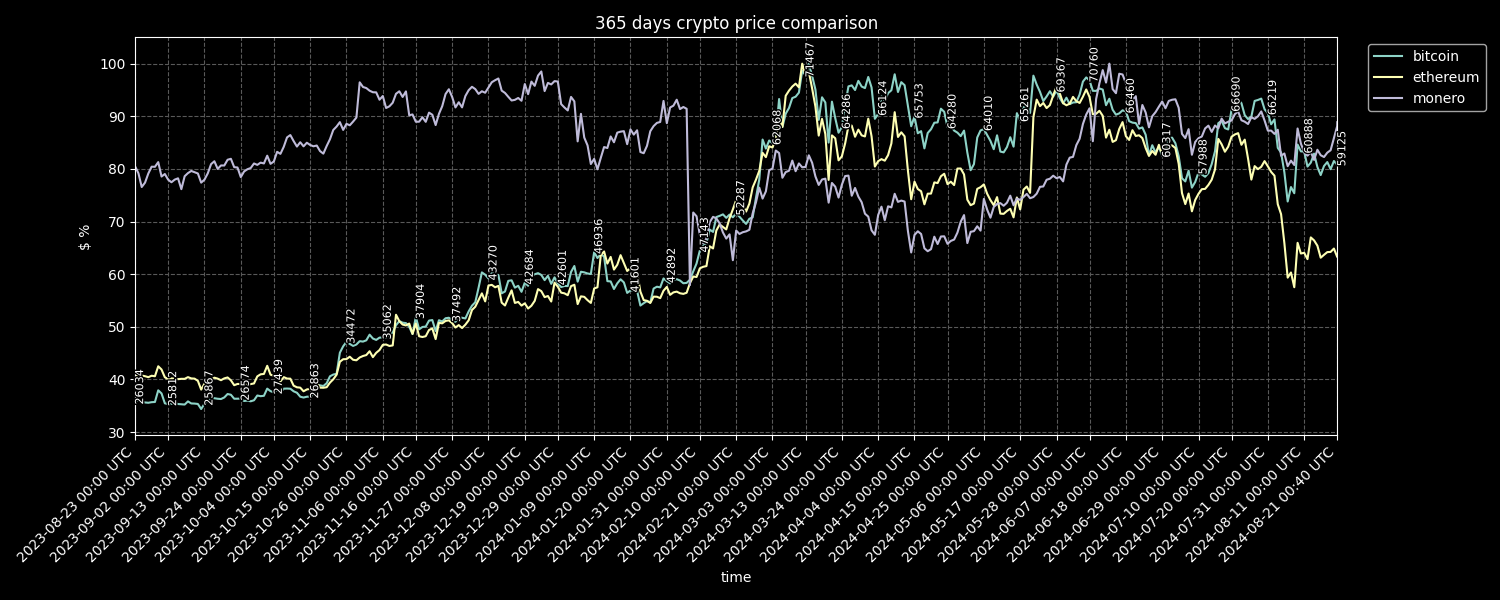
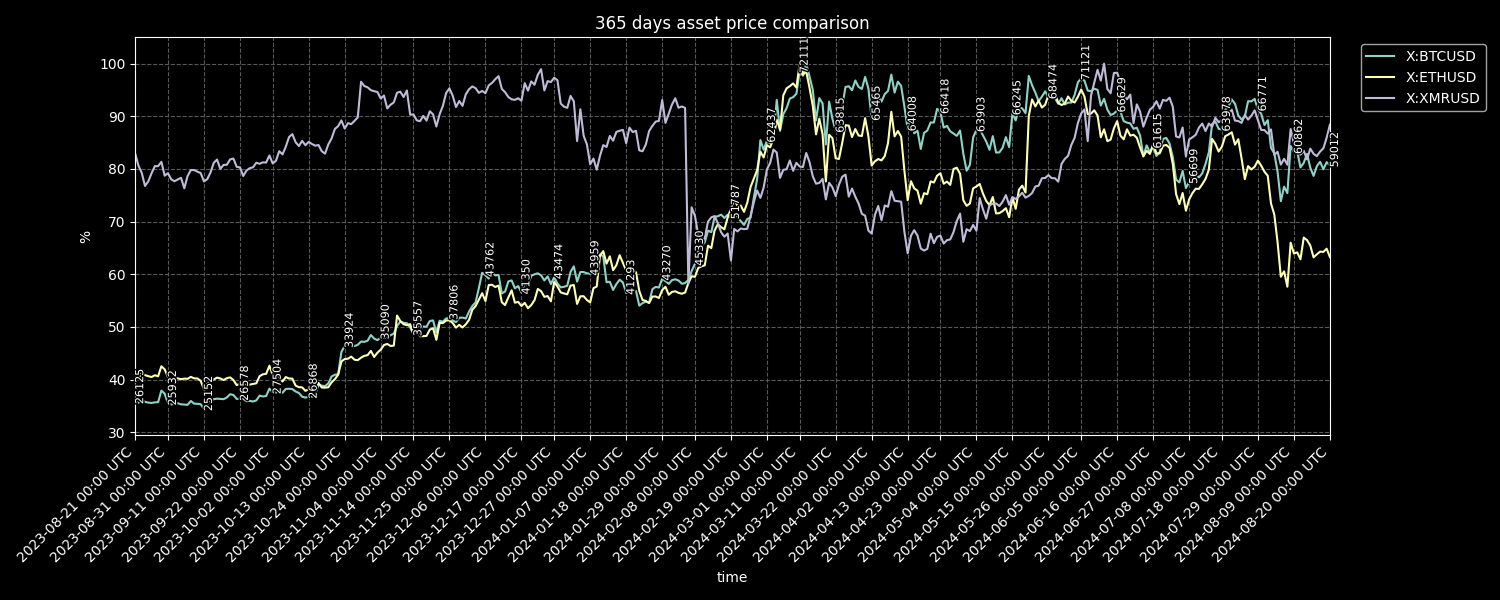
switch from coingecko to polygon backend

diff --git a/stonks.py b/stonks.py
@@ -7,13 +7,16 @@ import urllib3
 import numpy as np
 import matplotlib.pyplot as plt
 import matplotlib.patheffects as pe
+import time
 from dotenv import load_dotenv
 
 load_dotenv()
 
 plt.style.use("dark_background")
+
 command_prefix = "!stonks"
-default_coins = ["bitcoin", "ethereum", "monero"]
+
+default_tickers = ["X:BTCUSD", "X:ETHUSD", "X:XMRUSD"]
 
 
 #################
@@ -26,41 +29,51 @@ def do_req(url):
     return json.loads(response.data)
 
 
-##################
-# COINGECKO PART #
-##################
+################
+# POLYGON PART #
+################
+
+# doesn't use the official https://github.com/polygon-io/client-python
+# which would be more elegant
 
 # get historical data for one coin
-def get_coin_historic_price_gecko(coin, days, key):
-    print(coin)
-    data = do_req(
-        f"https://api.coingecko.com/api/v3/coins/{coin}/market_chart?vs_currency=usd&days={days}&x_cg_api_key={key}")
-    data_array = np.array(data["prices"])
 
-    prices = data_array[:, 1]
-    timestamps = data_array[:, 0]
+def get_coin_historic_price_polygon(ticker, days, key):
+    print(ticker)
+    int_days = int(days) + 1
+    end = int(time.time() * 1000)
+    start = end - int_days * 24 * 60 * 60 * 1000
+    req = (f"https://api.polygon.io/v2/aggs/ticker/{ticker}/range/1/{"day" if int_days > 60 else "hour"}"
+           f"/{start}/{end}?limit=50000&apiKey={key}")
+    data = do_req(req)
+    data_array = np.array(data["results"])
+    prices = []
+    timestamps = []
     readable_dates = []
-    for date in timestamps:
+    for row in data_array:
+        prices.append(row["c"])
+        timestamp = row["t"]
+        timestamps.append(timestamp)
         readable_dates.append(
-            f"{datetime.datetime.fromtimestamp(int(date) / 1000,
+            f"{datetime.datetime.fromtimestamp(int(timestamp) / 1000,
                                                datetime.timezone.utc).strftime("%Y-%m-%d %H:%M")} UTC")
-    readable_dates = np.array(readable_dates)
-    return prices, readable_dates, timestamps
+
+    return np.array(prices), np.array(readable_dates), np.array(timestamps)
 
 
 ###################
 # MATPLOTLIB PART #
 ###################
 
-async def get_fig(days, coins):
+async def get_fig(days, tickers):
     coins_prices = []
     coins_timestamps = []
     oldest_readable_date = None
     oldest_timestamps = None
     age = np.inf
-    key = os.getenv("COIN_GECKO")
-    for coin in coins:
-        prices, readable_dates, timestamps = get_coin_historic_price_gecko(coin, days, key)
+    key = os.getenv("POLYGON")
+    for ticker in tickers:
+        prices, readable_dates, timestamps = get_coin_historic_price_polygon(ticker, days, key)
         # find the oldest coin
         if age > timestamps[0]:
             oldest_readable_date = readable_dates
@@ -119,10 +132,10 @@ async def get_fig(days, coins):
     plt.gca().set_ylim(mini - 0.05, 1.05)
     plt.gca().set_xlim(oldest_timestamps[0], oldest_timestamps[-1])
     plt.grid(color="#595959", linestyle="--")
-    plt.legend(coins, bbox_to_anchor=(1.02, 1), loc="upper left")
+    plt.legend(tickers, bbox_to_anchor=(1.02, 1), loc="upper left")
     plt.xlabel("time")
-    plt.ylabel("$ %")
-    plt.title(f"{("last day" if days_num == 1 else f"{days} days")}" + " crypto price comparison")
+    plt.ylabel("%")
+    plt.title(f"{("last day" if days_num == 1 else f"{days} days")}" + " asset price comparison")
     plt.tight_layout()
 
     return fig
@@ -133,15 +146,15 @@ def main(save):
     asyncio.set_event_loop(loop)
 
     if len(sys.argv) == 1:
-        task = get_fig("365", default_coins)
+        task = get_fig("365", default_tickers)
     elif len(sys.argv) == 2:
-        task = get_fig(sys.argv[1], default_coins)
+        task = get_fig(sys.argv[1], default_tickers)
     else:
         task = get_fig(sys.argv[1], sys.argv[2:])
 
     try:
         loop.run_until_complete(task)
-        args = sys.argv[1:]
+        args = [arg.replace(':', '-') for arg in sys.argv[1:]]
         if save:
             plt.savefig("pics/" + command_prefix + ("_" if len(args) > 0 else "") + "_".join(args) + ".png")
         else:

diff --git a/bot.py b/bot.py
@@ -1,4 +1,4 @@
-from stonks import get_fig, default_coins, command_prefix
+from stonks import get_fig, default_tickers, command_prefix
 import matplotlib.pyplot as plt
 import discord
 import os
@@ -23,9 +23,9 @@ async def on_message(message):
         await message.channel.send("Roger, roger!")
         try:
             if len(command_split) == 1:
-                fig = await get_fig("365", default_coins)
+                fig = await get_fig("365", default_tickers)
             elif len(command_split) == 2:
-                fig = await get_fig(command_split[1], default_coins)
+                fig = await get_fig(command_split[1], default_tickers)
             else:
                 fig = await get_fig(command_split[1], command_split[2:])
 

diff --git a/README.md b/README.md
@@ -1,20 +1,21 @@
 # Purpose #
 
-The purpose of this Discord bot is to pull the prices of user-defined coins from CoinGecko for a user-defined number of last days and display them in a plot in a relative manner.
-The prices for the first coin on the list are also shown.
+The purpose of this Discord bot is to pull the close prices for user-defined list of assets (cryptocurrencies, stocks, etc.) for a select number of last days and display them in a plot in a relative manner.
 
-> [!TIP]  
+The close prices for the first asset on the list are also shown.
+
+> [!NOTE]  
 > The images below are updated automagically via Github Actions every hour!
 
 # Usage #
 
 To use the bot, send it a direct message on Discord or post in any channel the bot has access to on a Discord server that the bot is in. The message should conform to the following guidelines.
 
-Default settings (maximum number of days available on CoinGecko, using coins bitcoin, ethereum and monero):
+Default settings (365 days, using tickers `X:BTCUSD`, `X:ETHUSD`, `X:XMRUSD`):
 ```
 !stonks
 ```
-will produce something like:
+will produce:
 ![example 1](pics/!stonks.png)
 
 Default settings with user-defined number of days:
@@ -25,24 +26,27 @@ for example:
 ```
 !stonks 1
 ```
-will produce something like:
-![example 2](pics/!stonks_1.png)
+will produce:
+![example 2](pics/!stonks_3.png)
 ```
 !stonks 14
 ```
-will produce something like:
+will produce:
 ![example 3](pics/!stonks_14.png)
 
 Custom input:
 ```
-!stonks <number of days> <CoinGecko API ids with spaces>
+!stonks <number of days> <tickers with spaces>
 ```
 for example:
 ```
-!stonks 365 avalanche-2 chainlink monero bitcoin ethereum
+!stonks 365 X:BTCUSD GOOG NVDA AAPL
 ```
-will produce something like:
-![example 4](pics/!stonks_365_avalanche-2_chainlink_monero_bitcoin_ethereum.png)
+will produce:
+![example 4](pics/!stonks_365_X-BTCUSD_GOOG_NVDA_AAPL.png)
+
+> [!TIP]  
+> In terms of [tickers](https://polygon.io/quote/tickers), mixing cryptocurrencies and stocks is allowed!
 
 # Installation #
 
@@ -55,16 +59,24 @@ will produce something like:
 
 ## Running locally ##
 
+> [!IMPORTANT]
+> All the Discord commands listed under [Usage](#usage) will work locally if you `cd` into project location and substitute `!stonks` with `python stonks.py`!
+>
+> However, for this to work, you must provide a [polygon.io]() API key, which you can acquire for free on their website.
+> Then create a file named `.env` and paste your polygon API `<key>` into it like so:
+> ```
+> POLYGON=<key>
+> ```
+
 * Run `python stonks.py`
 
-> [!NOTE]
-> All the Discord commands listed under Usage will work locally if you `cd` into project location and substitute `!stonks` with `python stonks.py`, for example:
+With some additional parameters:
 > ```
-> python stonks.py 365 avalanche-2 chainlink monero bitcoin ethereum
+> python stonks.py 365 X:BTCUSD GOOG NVDA AAPL
 > ```
 
 # TODO #
 
+* [ ] Add Discord Application guide to `README.md`
 * [ ] Automatic deployment to AWS EC2 via GitHub Actions
-* [ ] Add stocks and ETFs
 * [ ] Overall code quality improvements
